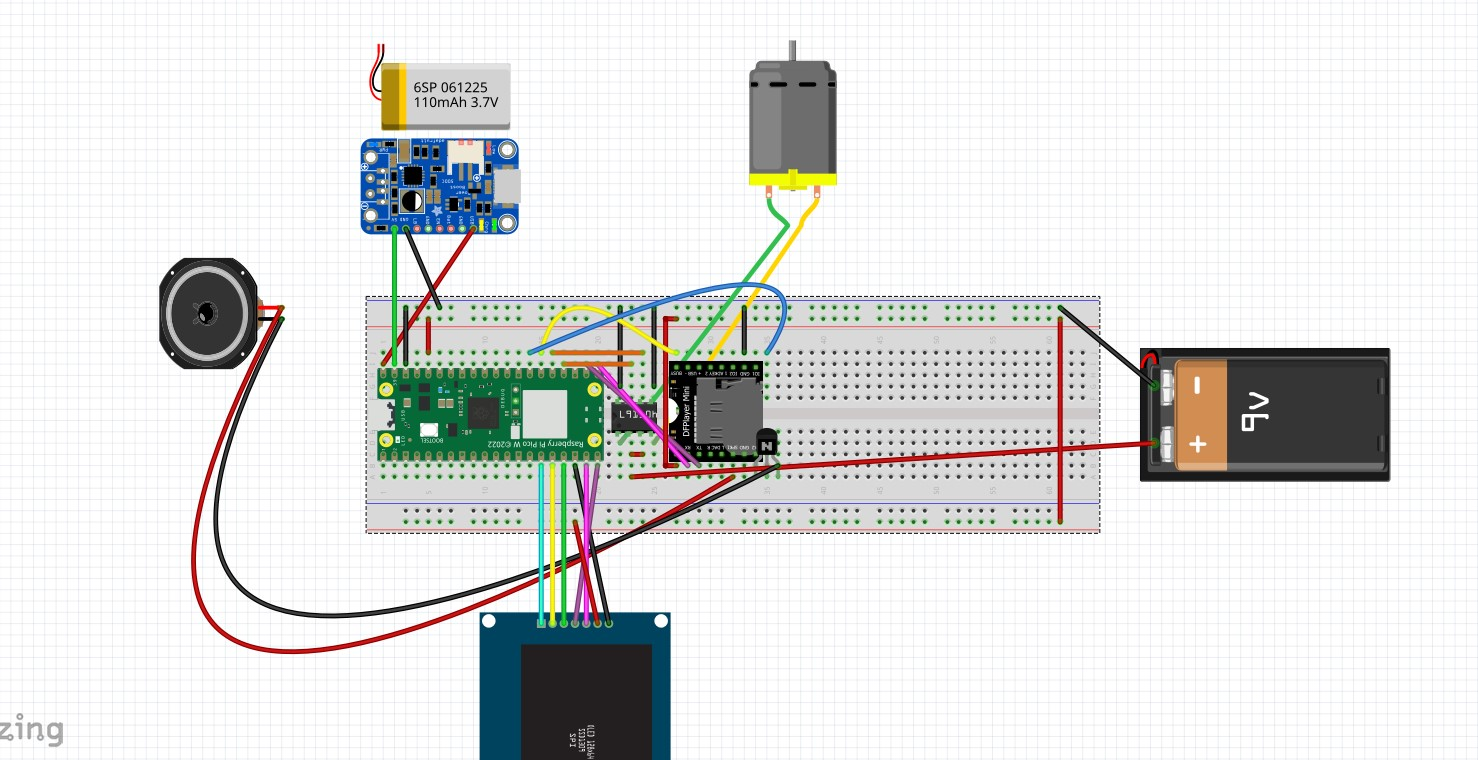
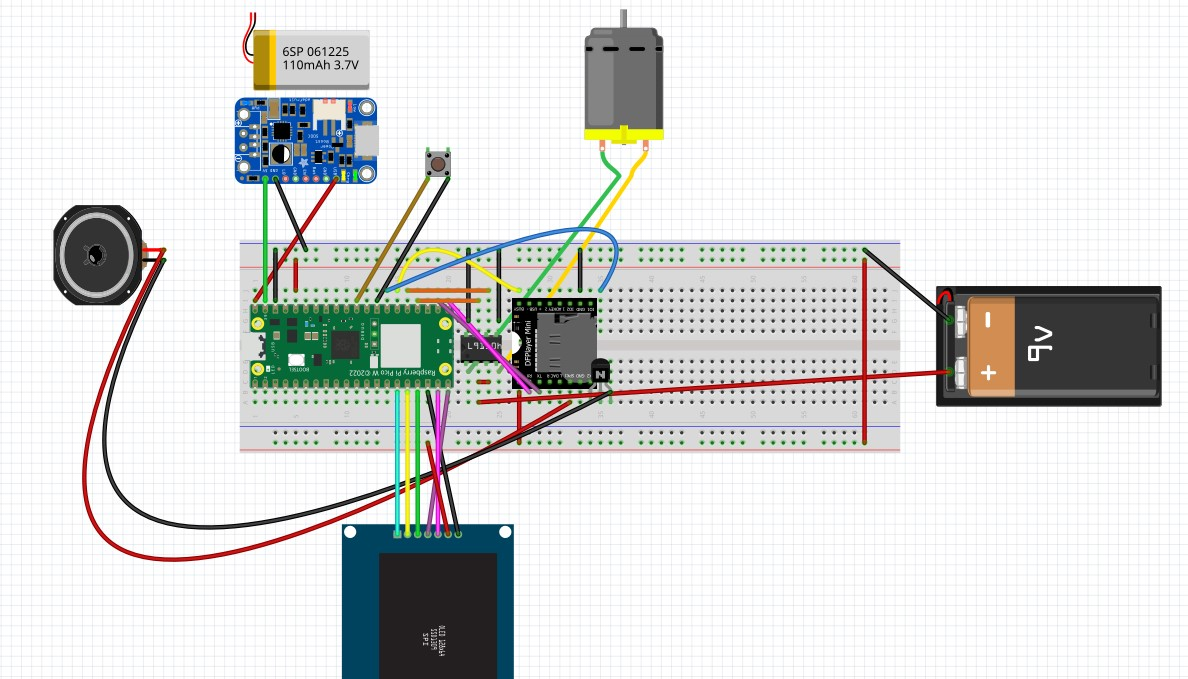
add pushbutton to fritzing

Changed region(s): [[0.0311, 0.0, 0.9966, 1.0], [0.0, 0.9278, 0.0623, 0.9897]]

diff --git a/README.md b/README.md
@@ -13,6 +13,7 @@ This project modified this alarm clock, giving it a large oled display and Wi-Fi
 -   Motor direction and speed control
     -   Sync McQueen to ringtone
 -   Icons representing status (Wi-Fi, alarm, new message, on battery/power)
+-   Reset button
 
 # Server
 
